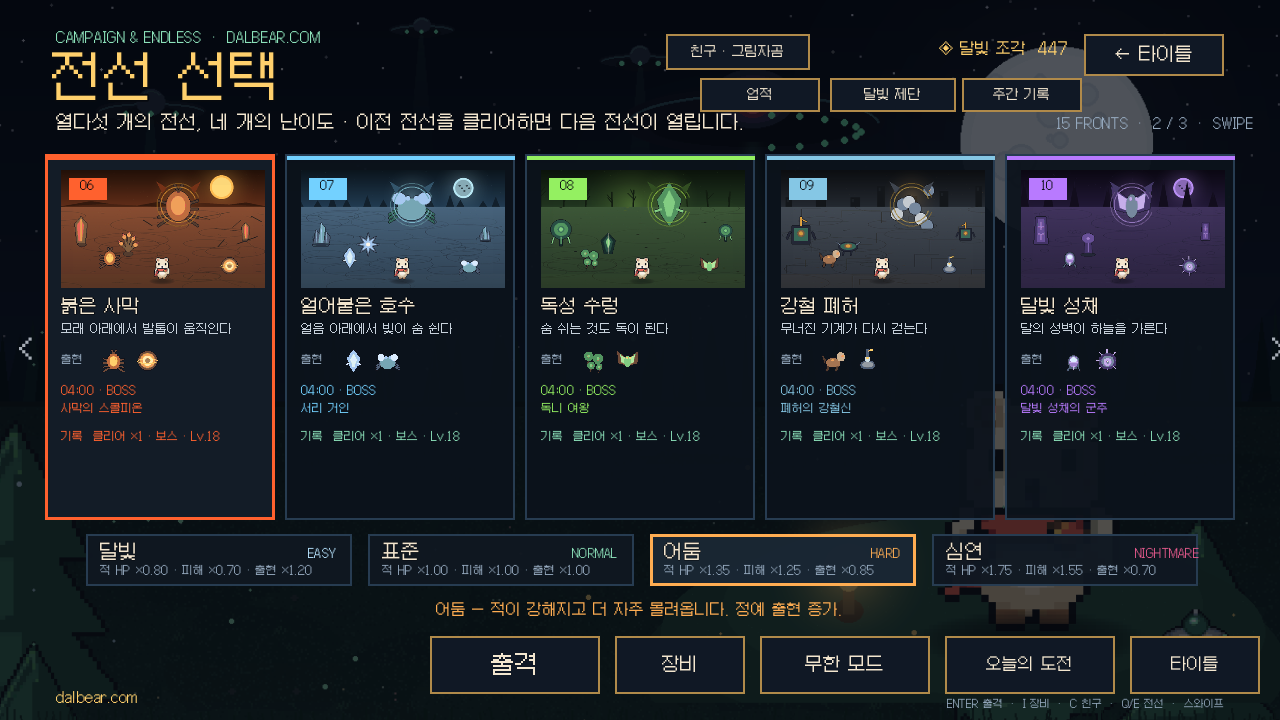
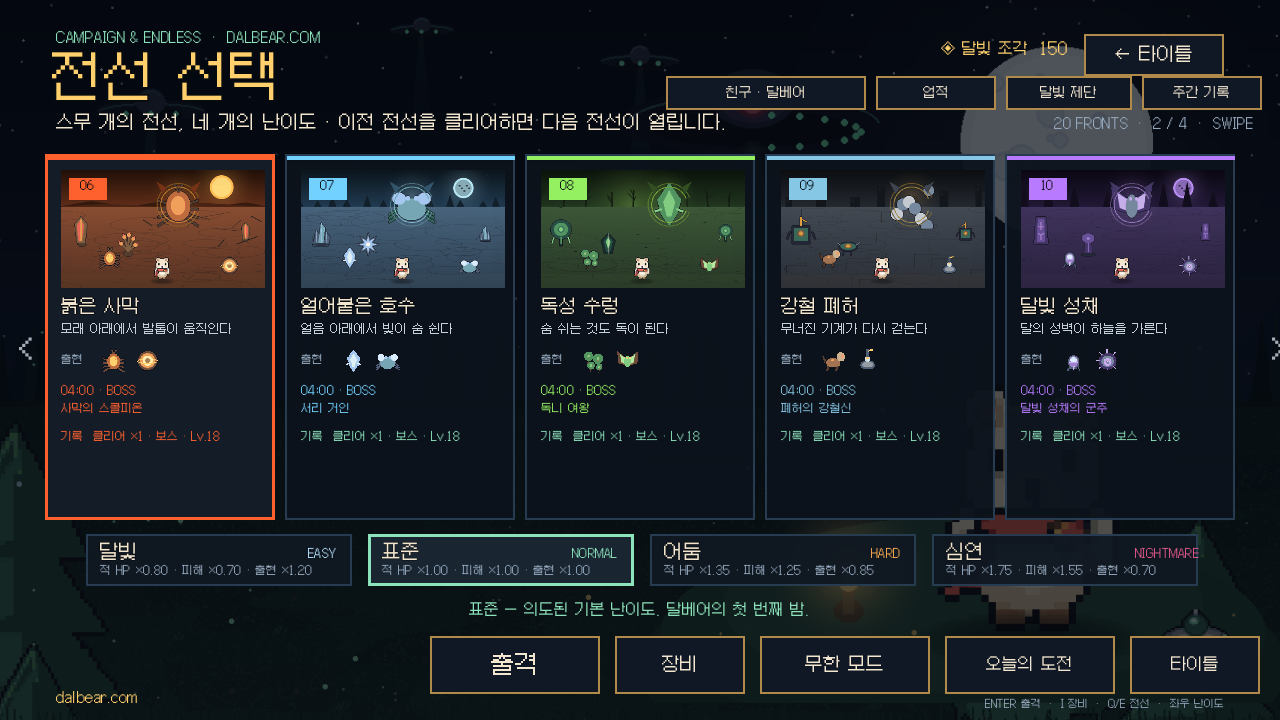
feat: align hub UI, fix portrait HUD, and add hard achievements (v1.19.0)
- Align the front-select character, achievements, altar and weekly buttons into one row in landscape and portrait.

- Move touch controls above the bottom HUD, hide duplicate touch ability slots, and fix portrait HUD panel placement after zoom adjustment.

- Reduce portrait camera zoom and enlarge portrait touch controls and hub action buttons.

- Expand achievements from 12 to 34 with hard difficulty, no-hit, kill, boss, level, daily, endless and enhancement goals; add paginated achievement pages.

- Track hard/nightmare/no-hit wins and persist run damage in checkpoints; bump to 1.19.0 / versionCode 29.

diff --git a/README.md b/README.md
@@ -5,7 +5,7 @@
 > 외계 함대가 지구를 덮친 밤, 스무 개의 전선을 지켜낸다.
 
 **20개 스테이지 × 4분**, **4단계 난이도**, **53종 외계인 + 25종 중간 보스 + 20종 최종 보스**,
-**무기 8종 + 진화 무기 8종**, **인런 유물**, **무한 모드 · 일일 챌린지 · 업적 12종**,
+**무기 8종 + 진화 무기 8종**, **인런 유물**, **무한 모드 · 일일 챌린지 · 업적 34종**,
 **속성 시너지 · 달빛 제단 · 달빛 동료 5종 · 장비 세트**,
 **장비 잠금 · 일괄 분해 · 로드아웃 3칸 · 주간 기록**,
 **대시 & 궁극기**, **리롤·밴**, **그래픽 프리셋 · HUD 크기 · 조이스틱 배치**, **연출 설정 · 플랫폼 · 접근성 · 진동**, **Android Google Play Games 연동**,
@@ -209,7 +209,7 @@ godot --headless --path . --export-debug "Android" build/DALBEAR.apk
 - 결과 화면에 오늘의 최고 시간·킬·클리어 횟수가 표시되고, 날짜별 기록이 저장됩니다.
 
 ### 업적
-전선 선택 화면의 **업적** 버튼(또는 `A`)에서 12종 업적과 진행도를 확인할 수 있습니다.
+전선 선택 화면의 **업적** 버튼(또는 `A`)에서 34종 업적과 진행도를 확인할 수 있습니다.
 달성 즉시 상단 알림이 뜨고 자동 저장됩니다. 오래된 세이브도 보유 기록을 기준으로 즉시 판정됩니다.
 
 | 업적 | 조건 |
@@ -590,7 +590,7 @@ DalbearSurvival/
 │  ├─ main.tscn / player.tscn / enemy.tscn
 ├─ scripts/
 │  ├─ game_data.gd               # 20개 전선/난이도/무기/적/보스/패시브/일일 변칙 데이터
-│  ├─ achievement_data.gd        # 업적 12종 정의/진행도
+│  ├─ achievement_data.gd        # 업적 34종 정의/진행도
 │  ├─ achievements_screen.gd     # 업적 보드 UI
 │  ├─ altar_data.gd              # 제단 영구 강화 7종
 │  ├─ altar_screen.gd            # 제단 UI
